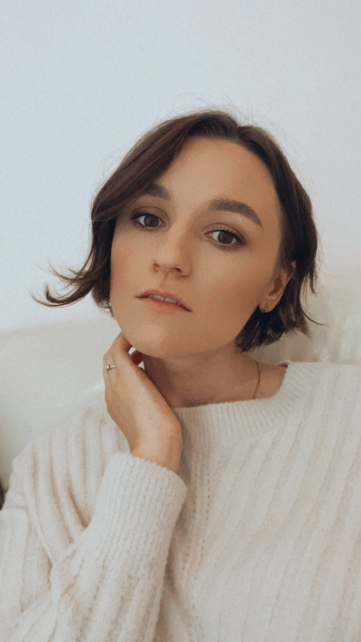
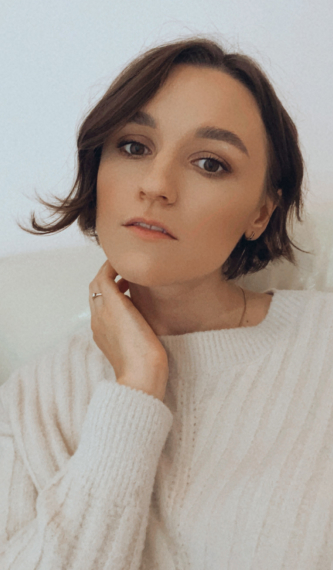
fix header && about sections

diff --git a/css/style.min.css b/css/style.min.css
@@ -1,1 +1,1 @@
-@-webkit-keyframes arrowBounce{0%,to{bottom:46px}50%{bottom:32px}}@keyframes arrowBounce{0%,to{bottom:46px}50%{bottom:32px}}@-webkit-keyframes fadeIn{0%{opacity:0}to{opacity:1}}@keyframes fadeIn{0%{opacity:0}to{opacity:1}}@font-face{font-family:"Montserrat";font-style:normal;font-weight:200;src:local(""),url(../fonts/montserrat-v18-latin_cyrillic-200.woff2) format("woff2"),url(../fonts/montserrat-v18-latin_cyrillic-200.woff) format("woff")}@font-face{font-family:"Montserrat";font-style:normal;font-weight:300;src:local(""),url(../fonts/montserrat-v18-latin_cyrillic-300.woff2) format("woff2"),url(../fonts/montserrat-v18-latin_cyrillic-300.woff) format("woff")}@font-face{font-family:"Montserrat";font-style:normal;font-weight:400;src:local(""),url(../fonts/montserrat-v18-latin_cyrillic-regular.woff2) format("woff2"),url(../fonts/montserrat-v18-latin_cyrillic-regular.woff) format("woff")}@font-face{font-family:"Montserrat";font-style:normal;font-weight:500;src:local(""),url(../fonts/montserrat-v18-latin_cyrillic-500.woff2) format("woff2"),url(../fonts/montserrat-v18-latin_cyrillic-500.woff) format("woff")}@font-face{font-family:"Montserrat";font-style:normal;font-weight:600;src:local(""),url(../fonts/montserrat-v18-latin_cyrillic-600.woff2) format("woff2"),url(../fonts/montserrat-v18-latin_cyrillic-600.woff) format("woff")}@font-face{font-family:"Cormorant";font-style:normal;font-weight:300;src:local(""),url(../fonts/cormorant-v11-latin_cyrillic-300.woff2) format("woff2"),url(../fonts/cormorant-v11-latin_cyrillic-300.woff) format("woff")}@font-face{font-family:"Cormorant";font-style:normal;font-weight:400;src:local(""),url(../fonts/cormorant-v11-latin_cyrillic-regular.woff2) format("woff2"),url(../fonts/cormorant-v11-latin_cyrillic-regular.woff) format("woff")}@font-face{font-family:"Cormorant";font-style:normal;font-weight:500;src:local(""),url(../fonts/cormorant-v11-latin_cyrillic-500.woff2) format("woff2"),url(../fonts/cormorant-v11-latin_cyrillic-500.woff) format("woff")}:root{--darkGrey:#444446;--beige:#EBE7DC;--olive:#7F8B81;--lightGrey:#DDDEDC;--borderGrey:#ADAAA4}html{scroll-behavior:smooth}*{-webkit-box-sizing:border-box;box-sizing:border-box}a{text-decoration:none;color:inherit}body{font-family:"Montserrat","Robotto",sans-serif;font-weight:300}.body-wrapper{width:1440px;margin:0 auto;overflow:hidden}.header{position:relative;min-height:700px;padding:0 20px;background-color:var(--darkGrey);color:var(--beige)}.header-inner{display:-webkit-box;display:-ms-flexbox;display:flex;-webkit-box-pack:justify;-ms-flex-pack:justify;justify-content:space-between;min-height:64px;padding:0 20px}.header-links{display:grid;grid-auto-flow:column;-webkit-box-align:center;-ms-flex-align:center;align-items:center;font-size:20px;line-height:24px}.header-links--social{gap:25px;text-transform:uppercase}.header-links--site{gap:50px}.header-logo{position:absolute;display:block;content:"";width:-webkit-fit-content;width:-moz-fit-content;width:fit-content;font-family:"Cormorant","serif";top:50%;left:50%;-webkit-transform:translate(-50%,-50%);transform:translate(-50%,-50%);margin:0;opacity:0;-webkit-animation:fadeIn 700ms ease-in 2000ms both;animation:fadeIn 700ms ease-in 2000ms both}.header-logo-subtitle{margin-top:0;margin-bottom:8px;font-size:50px;line-height:60px}.header-logo-title{margin:0;text-transform:uppercase;font-size:130px;line-height:157px;font-weight:400}.header-logo:before{top:62%;right:-69px;-webkit-transform:translateY(-50%);transform:translateY(-50%);width:220px;height:220px;border-radius:50%;background-color:var(--olive);z-index:-1;-webkit-animation:fadeIn 800ms ease-in 2500ms both;animation:fadeIn 800ms ease-in 2500ms both}.header-arrow,.header-logo:before,.header:after,.header:before{position:absolute;display:block;content:"";opacity:0}.header-arrow{left:50%;bottom:46px;-webkit-transform:translateX(-50%);transform:translateX(-50%);height:70px;width:16px;background-image:url(../assets/arrow.svg);-webkit-animation:fadeIn 700ms ease-in 3200ms both,arrowBounce 1000ms infinite;animation:fadeIn 700ms ease-in 3200ms both,arrowBounce 1000ms infinite}.header:after,.header:before{width:298px;height:676px;background-image:url(../assets/twig.svg);background-size:contain}.header:after{top:-5%;left:-12.5%;-webkit-transform:rotate(61.24deg);transform:rotate(61.24deg);-webkit-animation:fadeIn 700ms ease-in 500ms both;animation:fadeIn 700ms ease-in 500ms both}.header:before{bottom:-13%;right:-14.5%;-webkit-transform:rotate(-109.79deg);transform:rotate(-109.79deg);-webkit-animation:fadeIn 700ms ease-in 1250ms both;animation:fadeIn 700ms ease-in 1250ms both}.about{display:grid;grid-template-columns:1fr 1fr}.photo{display:-webkit-box;display:-ms-flexbox;display:flex;-webkit-box-align:center;-ms-flex-align:center;align-items:center;-webkit-box-pack:center;-ms-flex-pack:center;justify-content:center;background-color:var(--lightGrey);padding:79px 0}.photo-inner{position:relative}.photo-imgage{vertical-align:top}.photo-line{width:357px;height:3px;background-color:var(--darkGrey);border-top-right-radius:2px;border-bottom-right-radius:2px}.photo-name,.photo-surname{position:absolute;display:-webkit-box;display:-ms-flexbox;display:flex;-webkit-box-align:baseline;-ms-flex-align:baseline;align-items:baseline;gap:21px;height:61px;font-family:"Cormorant";font-weight:600;font-size:50px;line-height:60px;color:var(--darkGrey);-webkit-transform-origin:0 100%;transform-origin:0 100%}.photo-surname{bottom:0;-webkit-transform:rotate(-90deg);transform:rotate(-90deg)}.photo-name{top:0;left:100%;-webkit-transform:translateY(-100%) rotate(90deg);transform:translateY(-100%) rotate(90deg)}.info{position:relative;display:-webkit-box;display:-ms-flexbox;display:flex;-webkit-box-orient:vertical;-webkit-box-direction:normal;-ms-flex-direction:column;flex-direction:column;-webkit-box-pack:center;-ms-flex-pack:center;justify-content:center;padding-left:134px;padding-right:138px;background-color:var(--olive);color:var(--beige);overflow:hidden}.info-title{font-family:"Cormorant",serif;font-weight:500;font-size:50px;line-height:60px;margin-top:0;margin-bottom:20px}.info-text{margin-top:0;margin-bottom:0;font-size:20px;line-height:35px}.info-text:not(:last-of-type){margin-bottom:10px}.info:before{-webkit-transform:rotate(-67.37deg) scale(.6);transform:rotate(-67.37deg) scale(.6);bottom:-43%;right:-10%}.projects{padding:0 20px 160px;background-color:var(--darkGrey);color:var(--beige)}.projects-wrapper-title{display:grid;gap:134px;grid-template-columns:auto auto;padding-left:calc(138px - 20px);padding-top:160px;margin-bottom:60px}.projects-wrapper-title--twig{position:relative}.footer:before,.info:before,.projects-wrapper-title--twig:before{position:absolute;display:block;content:"";width:298px;height:676px;background-image:url(../assets/twig.svg)}.projects-wrapper-title--twig:before{top:-70%;left:-14%;-webkit-transform:rotate(153.15deg) scale(.4);transform:rotate(153.15deg) scale(.4)}.projects-title{width:338px;margin:0;font-size:50px;line-height:60px;font-family:"Cormorant",serif;font-weight:500}.projects-text{width:810px;margin:0;font-size:20px;line-height:35px}.projects-content-double{display:grid;grid-template-rows:1fr 1fr;gap:16px}.projects-content-double--gap{display:grid;grid-auto-flow:column;gap:20px}.projects-content-wrapper{border:3px solid var(--borderGrey);border-radius:8px}.projects-content-wrapper--doubleRCafe{display:-webkit-box;display:-ms-flexbox;display:flex;gap:30px;padding:37px}.projects-content-wrapper--doubleRCafe--single{padding:11px 17px}.projects-content-wrapper--doubleRCafe img{border-radius:8px}.projects-content-wrapper--museum{display:-webkit-box;display:-ms-flexbox;display:flex;-webkit-box-align:center;-ms-flex-align:center;align-items:center;-webkit-box-pack:center;-ms-flex-pack:center;justify-content:center}.projects-content-wrapper--museum--full{min-height:662px}.projects-view--museum{display:grid;grid-template-columns:repeat(4,1fr);gap:16px}.footer,.projects-view--doubleRCafe{display:-webkit-box;display:-ms-flexbox;display:flex}.projects-view--doubleRCafe{gap:16px;-ms-flex-wrap:wrap;flex-wrap:wrap;-webkit-box-pack:center;-ms-flex-pack:center;justify-content:center}.footer{position:relative;-webkit-box-orient:vertical;-webkit-box-direction:normal;-ms-flex-direction:column;flex-direction:column;padding:50px 138px;background-color:var(--olive);color:var(--beige);font-family:"Helvetica Neue",sans-serif}.footer:before{top:-30%;right:0;-webkit-transform:rotate(-69.69deg);transform:rotate(-69.69deg)}.footer-title{margin-bottom:20px;margin-top:0;font-family:"Cormorant",serif;font-weight:500;font-size:50px;line-height:60px}.footer-link{font-size:20px;line-height:30px}.footer-link:first-of-type{margin-bottom:10px}.footer-social{display:-webkit-box;display:-ms-flexbox;display:flex;gap:25px;margin-top:20px;text-transform:uppercase}
+@-webkit-keyframes arrowBounce{0%,to{bottom:46px}50%{bottom:32px}}@keyframes arrowBounce{0%,to{bottom:46px}50%{bottom:32px}}@-webkit-keyframes fadeIn{0%{opacity:0}to{opacity:1}}@keyframes fadeIn{0%{opacity:0}to{opacity:1}}@font-face{font-family:"Montserrat";font-style:normal;font-weight:200;src:local(""),url(../fonts/montserrat-v18-latin_cyrillic-200.woff2) format("woff2"),url(../fonts/montserrat-v18-latin_cyrillic-200.woff) format("woff")}@font-face{font-family:"Montserrat";font-style:normal;font-weight:300;src:local(""),url(../fonts/montserrat-v18-latin_cyrillic-300.woff2) format("woff2"),url(../fonts/montserrat-v18-latin_cyrillic-300.woff) format("woff")}@font-face{font-family:"Montserrat";font-style:normal;font-weight:400;src:local(""),url(../fonts/montserrat-v18-latin_cyrillic-regular.woff2) format("woff2"),url(../fonts/montserrat-v18-latin_cyrillic-regular.woff) format("woff")}@font-face{font-family:"Montserrat";font-style:normal;font-weight:500;src:local(""),url(../fonts/montserrat-v18-latin_cyrillic-500.woff2) format("woff2"),url(../fonts/montserrat-v18-latin_cyrillic-500.woff) format("woff")}@font-face{font-family:"Montserrat";font-style:normal;font-weight:600;src:local(""),url(../fonts/montserrat-v18-latin_cyrillic-600.woff2) format("woff2"),url(../fonts/montserrat-v18-latin_cyrillic-600.woff) format("woff")}@font-face{font-family:"Cormorant";font-style:normal;font-weight:300;src:local(""),url(../fonts/cormorant-v11-latin_cyrillic-300.woff2) format("woff2"),url(../fonts/cormorant-v11-latin_cyrillic-300.woff) format("woff")}@font-face{font-family:"Cormorant";font-style:normal;font-weight:400;src:local(""),url(../fonts/cormorant-v11-latin_cyrillic-regular.woff2) format("woff2"),url(../fonts/cormorant-v11-latin_cyrillic-regular.woff) format("woff")}@font-face{font-family:"Cormorant";font-style:normal;font-weight:500;src:local(""),url(../fonts/cormorant-v11-latin_cyrillic-500.woff2) format("woff2"),url(../fonts/cormorant-v11-latin_cyrillic-500.woff) format("woff")}:root{--darkGrey:#444446;--beige:#EBE7DC;--olive:#7F8B81;--lightGrey:#DDDEDC;--borderGrey:#ADAAA4}html{scroll-behavior:smooth}*{-webkit-box-sizing:border-box;box-sizing:border-box}a{text-decoration:none;color:inherit}body{font-family:"Montserrat","Robotto",sans-serif;font-weight:300}.body-wrapper{width:1440px;margin:0 auto;overflow:hidden}.header{position:relative;min-height:700px;padding:0 20px;background-color:var(--darkGrey);color:var(--beige)}.header-inner{display:-webkit-box;display:-ms-flexbox;display:flex;-webkit-box-pack:justify;-ms-flex-pack:justify;justify-content:space-between;min-height:64px;padding:0 20px}.header-links{display:grid;grid-auto-flow:column;-webkit-box-align:center;-ms-flex-align:center;align-items:center;font-size:20px;line-height:24px;font-weight:400}.header-links--social{gap:25px;text-transform:uppercase}.header-links--site{gap:50px}.header-logo{position:absolute;display:block;content:"";width:-webkit-fit-content;width:-moz-fit-content;width:fit-content;font-family:"Cormorant","serif";top:50%;left:50%;-webkit-transform:translate(-50%,-50%);transform:translate(-50%,-50%);margin:0;opacity:0;-webkit-animation:fadeIn 700ms ease-in 2000ms both;animation:fadeIn 700ms ease-in 2000ms both}.header-logo-subtitle{margin-top:0;margin-bottom:8px;font-size:50px;line-height:60px}.header-logo-title{margin:0;text-transform:uppercase;font-size:130px;line-height:157px;font-weight:400}.header-logo:before{top:62%;right:-69px;-webkit-transform:translateY(-50%);transform:translateY(-50%);width:220px;height:220px;border-radius:50%;background-color:var(--olive);z-index:-1;-webkit-animation:fadeIn 800ms ease-in 2500ms both;animation:fadeIn 800ms ease-in 2500ms both}.header-arrow,.header-logo:before,.header:after,.header:before{position:absolute;display:block;content:"";opacity:0}.header-arrow{left:50%;bottom:46px;-webkit-transform:translateX(-50%);transform:translateX(-50%);height:70px;width:16px;background-image:url(../assets/arrow.svg);-webkit-animation:fadeIn 700ms ease-in 3200ms both,arrowBounce 1000ms infinite;animation:fadeIn 700ms ease-in 3200ms both,arrowBounce 1000ms infinite}.header:after,.header:before{width:298px;height:676px;background-image:url(../assets/twig.svg);background-size:contain}.header:after{top:-5%;left:-12.5%;-webkit-transform:rotate(61.24deg);transform:rotate(61.24deg);-webkit-animation:fadeIn 700ms ease-in 500ms both;animation:fadeIn 700ms ease-in 500ms both}.header:before{bottom:-13%;right:-14.5%;-webkit-transform:rotate(-109.79deg);transform:rotate(-109.79deg);-webkit-animation:fadeIn 700ms ease-in 1250ms both;animation:fadeIn 700ms ease-in 1250ms both}.about{display:grid;grid-template-columns:705px 735px}.photo{background-color:var(--lightGrey);padding:100px 0 100px 221px;font-family:"Cormorant"}.photo-inner{position:relative;width:333px}.photo-imgage{vertical-align:top}.photo-line{height:3px;background-color:var(--darkGrey);border-radius:2px}.photo-line--surname{width:349px}.photo-line--name{width:365px}.photo-name,.photo-surname{position:absolute;display:-webkit-box;display:-ms-flexbox;display:flex;-webkit-box-align:baseline;-ms-flex-align:baseline;align-items:baseline;gap:21px;height:61px;font-family:"Cormorant";font-weight:500;font-size:50px;line-height:60px;color:var(--darkGrey);-webkit-transform-origin:0 100%;transform-origin:0 100%}.photo-surname{bottom:0;-webkit-transform:rotate(-90deg);transform:rotate(-90deg)}.photo-name{top:0;left:100%;-webkit-transform:translateY(-100%) rotate(90deg);transform:translateY(-100%) rotate(90deg)}.info{position:relative;display:-webkit-box;display:-ms-flexbox;display:flex;-webkit-box-orient:vertical;-webkit-box-direction:normal;-ms-flex-direction:column;flex-direction:column;-webkit-box-pack:center;-ms-flex-pack:center;justify-content:center;padding-left:125px;padding-right:164px;background-color:var(--olive);color:var(--beige);overflow:hidden;font-family:"Helvetica Neue";font-weight:400}.info-title{font-family:"Cormorant",serif;font-weight:500;font-size:50px;line-height:60px;margin-top:0;margin-bottom:20px}.info-text{margin-top:0;margin-bottom:0;font-size:20px;line-height:35px}.info-text:not(:last-of-type){margin-bottom:10px}.footer:before,.info:before{position:absolute;display:block;content:"";width:298px;height:676px;background-image:url(../assets/twig.svg)}.info:before{-webkit-transform:rotate(-67.37deg) scale(.6);transform:rotate(-67.37deg) scale(.6);bottom:-43%;right:-10%}.footer,.projects{display:-webkit-box;display:-ms-flexbox;display:flex}.projects{background-color:var(--darkGrey);padding:200px 165px;-ms-flex-wrap:wrap;flex-wrap:wrap}.footer{position:relative;-webkit-box-orient:vertical;-webkit-box-direction:normal;-ms-flex-direction:column;flex-direction:column;padding:50px 138px;background-color:var(--olive);color:var(--beige);font-family:"Helvetica Neue",sans-serif}.footer:before{top:-30%;right:0;-webkit-transform:rotate(-69.69deg);transform:rotate(-69.69deg)}.footer-title{margin-bottom:20px;margin-top:0;font-family:"Cormorant",serif;font-weight:500;font-size:50px;line-height:60px}.footer-link{font-size:20px;line-height:30px}.footer-link:first-of-type{margin-bottom:10px}.footer-social{display:-webkit-box;display:-ms-flexbox;display:flex;gap:25px;margin-top:20px;text-transform:uppercase;font-weight:400}

diff --git a/index.html b/index.html
@@ -39,105 +39,40 @@
       <div class="photo">
         <div class="photo-inner">
           <span class="photo-surname">
-            <span class="photo-line"></span>
+            <span class="photo-line photo-line--surname"></span>
             <span>Антонова</span>
           </span>
           <span class="photo-name">
-            <span class="photo-line"></span>
+            <span class="photo-line photo-line--name"></span>
             <span>Надежда</span>
           </span>
-          <img class="photo-imgage" src="assets/avatar.jpg" width="361" height="642" />
+          <img class="photo-imgage" src="assets/avatar.jpg" width="333" height="570" />
         </div>
       </div>
 
       <div class="info">
         <h3 class="info-title">Обо мне</h3>
-        <p class="info-text">Меня зовут Антонова Надежда, мне 29 лет и я дизайнер интерфейсов.</p>
         <p class="info-text">
-          Создаю свои макеты, ориентируясь на функциональный и доступный дизайн. Хорошо владею Figma и имею опыт работы с дизайн-системой.
-        </p>
-        <p class="info-text">
+          Меня зовут Антонова Надежда, я дизайнер интерфейсов.
+          <br />
+          Создаю свои макеты, ориентируясь 
+          на&nbsp;функциональный и доступный дизайн.
+          <br />
+          Хорошо владею Figma и имею опыт работы 
+          с&nbsp;дизайн-системой.
+          <br />
           Мыслю гипотезами и пользовательскими сценариями.
           <br />
           Стремлюсь к новым знаниям и практическим навыкам.
           <br />
-          В своей работе я ценю системность и аккуратность.
+          В своей работе я ценю системность
+          и&nbsp;аккуратность.  
         </p>
       </div>
     </div>
     <!-- projects -->
-    <div class="projects" id="projects">
-      <div class="projects-wrapper-title">
-        <h3 class="projects-title">Онлайн музей</h3>
-        <p class="projects-text">
-          Проектирование дизайн макета для онлайн музея поп-арт культуры.
-          Основополагающей задачей было создать удобный интерфейс для покупки билетов на онлайн мероприятия.
-          <br />
-          В своей работе я воспроизвела атмосферу светлой и просторной картинной галереи.
-        </p>
-      </div>
-      <div class="projects-view projects-view--museum">
-        <div class="projects-content-wrapper projects-content-wrapper--museum projects-content-wrapper--museum--full">
-          <img src="assets/museum/museum-1.png" width="196" height="612" />
-        </div>
-        
-        <div class="projects-content-double">
-          <div class="projects-content-wrapper projects-content-wrapper--museum">
-            <div class="projects-content-double--gap">
-              <img src="assets/museum/museum-2.png" width="139" height="280" />
-              <img src="assets/museum/museum-3.png" width="139" height="280" />
-            </div>
-          </div>
-          <div class="projects-content-wrapper projects-content-wrapper--museum">
-            <img src="assets/museum/museum-4.png" width="218" height="283" />
-          </div>
-        </div>
-
-        <div class="projects-content-wrapper projects-content-wrapper--museum projects-content-wrapper--museum--full">
-          <img src="assets/museum/museum-5.png" width="298" height="583" />
-        </div>
-
-        <div class="projects-content-double">
-          <div class="projects-content-wrapper projects-content-wrapper--museum">
-            <img src="assets/museum/museum-6.png" width="248" height="283" />
-          </div>
-          <div class="projects-content-wrapper projects-content-wrapper--museum">
-            <img src="assets/museum/museum-7.png" width="308" height="253" />
-          </div>
-        </div>
-      </div>
-
-      <div class="projects-wrapper-title projects-wrapper-title--twig">
-        <h3 class="projects-title">Double R Cafe</h3>
-        <p class="projects-text">
-          Создание дизайн-макета мобильного приложения для сети кофейн.
-          <br />
-          Double R Cafe — это сервис для людей, которые не любят стоять в очереди. Приложение позволяет оформить заказ на ходу и забрать его в удобной для себя кофейне.
-          <br />
-          Моей задачей было создать удобный интерфейс, решающий потребности, как заказчика, так и пользователя.
-        </p>
-      </div>
-      <div class="projects-view projects-view--doubleRCafe">
-        <div class="projects-content-wrapper projects-content-wrapper--doubleRCafe">
-          <img src="assets/double-r-cafe/double-r-cafe-1.png" width="173" height="376" />
-          <img src="assets/double-r-cafe/double-r-cafe-2.png" width="173" height="376" />
-        </div>
-        <div class="projects-content-wrapper projects-content-wrapper--doubleRCafe">
-          <img src="assets/double-r-cafe/double-r-cafe-3.png" width="173" height="376" />
-          <img src="assets/double-r-cafe/double-r-cafe-4.png" width="173" height="376" />
-        </div>
-        <div class="projects-content-wrapper projects-content-wrapper--doubleRCafe">
-          <img src="assets/double-r-cafe/double-r-cafe-5.png" width="173" height="376" />
-          <img src="assets/double-r-cafe/double-r-cafe-6.png" width="173" height="376" />
-        </div>
-        <div class="projects-content-wrapper projects-content-wrapper--doubleRCafe">
-          <img src="assets/double-r-cafe/double-r-cafe-7.png" width="173" height="376" />
-          <img src="assets/double-r-cafe/double-r-cafe-8.png" width="173" height="376" />
-        </div>
-        <div class="projects-content-wrapper projects-content-wrapper--doubleRCafe projects-content-wrapper--doubleRCafe--single">
-          <img src="assets/double-r-cafe/double-r-cafe-9.png" width="416" height="428" />
-        </div>
-      </div>
+    <div>
+      
     </div>
     <!-- footer -->
     <footer class="footer" id="contacts">

diff --git a/sass/_projects.scss b/sass/_projects.scss
@@ -1,106 +1,6 @@
 .projects {
-  padding: 0 20px 160px;
   background-color: var(--darkGrey);
-  color: var(--beige);
-
-  &-wrapper-title {
-    display: grid;
-    gap: 134px;
-    grid-template-columns: auto auto;
-    padding-left: calc(138px - 20px);
-    padding-top: 160px;
-    margin-bottom: 60px;
-
-    &--twig {
-      position: relative;
-
-      &:before {
-        position: absolute;
-        display: block;
-        content: '';
-        width: 298px;
-        height: 676px;
-        top: -70%;
-        left: -14%;
-        background-image: url('../assets/twig.svg');
-        transform: rotate(153.15deg) scale(0.4);
-      }
-    }
-  }
-
-  &-title {
-    width: 338px;
-    margin: 0;
-    font-size: 50px;
-    line-height: 60px;
-    font-family: 'Cormorant', serif;
-    font-weight: 500;
-  }
-
-  &-text {
-    width: 810px;
-    margin: 0;
-    font-size: 20px;
-    line-height: 35px;
-  }
-
-  
-
-  &-content {
-    &-double {
-      display: grid;
-      grid-template-rows: 1fr 1fr;
-      gap: 16px;
-
-      &--gap {
-        display: grid;
-        grid-auto-flow: column;
-        gap: 20px;
-      }
-    }
-
-    &-wrapper {
-      border: 3px solid var(--borderGrey);
-      border-radius: 8px;
-  
-      &--doubleRCafe {
-        display: flex;
-        gap: 30px;
-        padding: 37px;
-  
-        &--single {
-          padding: 11px 17px;
-        }
-  
-        img {
-          border-radius: 8px;
-        }
-      }
-  
-      &--museum {
-        display: flex;
-        align-items: center;
-        justify-content: center;
-        
-        &--full {
-          min-height: 662px;
-        }
-      }
-    }
-  }
-
-  &-view {
-    &--museum {
-      display: grid;
-      grid-template-columns: repeat(4, 1fr);
-      gap: 16px;
-    }
-
-    &--doubleRCafe {
-      display: flex;
-      gap: 16px;
-      flex-wrap: wrap;
-      justify-content: center;
-    }
-  }
+  padding: 200px 165px;
+  display: flex;
+  flex-wrap: wrap;
 }

diff --git a/sass/_about.scss b/sass/_about.scss
@@ -1,17 +1,16 @@
 .about {
   display: grid;
-  grid-template-columns: 1fr 1fr;
+  grid-template-columns: 705px 735px;
 }
 
 .photo {
-  display: flex;
-  align-items: center;
-  justify-content: center;
   background-color: var(--lightGrey);
-  padding: 79px 0;
+  padding: 100px 0 100px 221px;
+  font-family: 'Cormorant';
 
   &-inner {
     position: relative;
+    width: 333px;
   }
 
   &-imgage {
@@ -19,11 +18,17 @@
   }
 
   &-line {
-    width: 357px;
     height: 3px;
     background-color: var(--darkGrey);
-    border-top-right-radius: 2px;
-    border-bottom-right-radius: 2px;
+    border-radius: 2px;
+
+    &--surname {
+      width: 349px;
+    }
+
+    &--name {
+      width: 365px;
+    }
   }
 
   &-surname,
@@ -34,7 +39,7 @@
     gap: 21px;
     height: 61px;
     font-family: 'Cormorant';
-    font-weight: 600;
+    font-weight: 500;
     font-size: 50px;
     line-height: 60px;
     color: var(--darkGrey);
@@ -59,11 +64,13 @@
   display: flex;
   flex-direction: column;
   justify-content: center;
-  padding-left: 134px;
-  padding-right: 138px;
+  padding-left: 125px;
+  padding-right: 164px;
   background-color: var(--olive);
   color: var(--beige);
   overflow: hidden;
+  font-family: 'Helvetica Neue';
+  font-weight: 400;
 
   &-title {
     font-family: 'Cormorant', serif;

diff --git a/sass/_footer.scss b/sass/_footer.scss
@@ -37,11 +37,11 @@
     }
   }
 
-
   &-social {
     display: flex;
     gap: 25px;
     margin-top: 20px;
     text-transform: uppercase;
+    font-weight: 400;
   }
 }

diff --git a/sass/_header.scss b/sass/_header.scss
@@ -18,6 +18,7 @@
     align-items: center;
     font-size: 20px;
     line-height: 24px;
+    font-weight: 400;
   
     &--social {
       gap: 25px;
